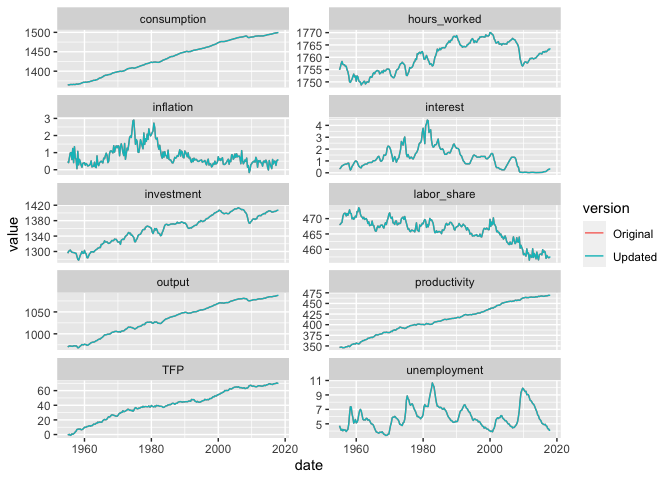
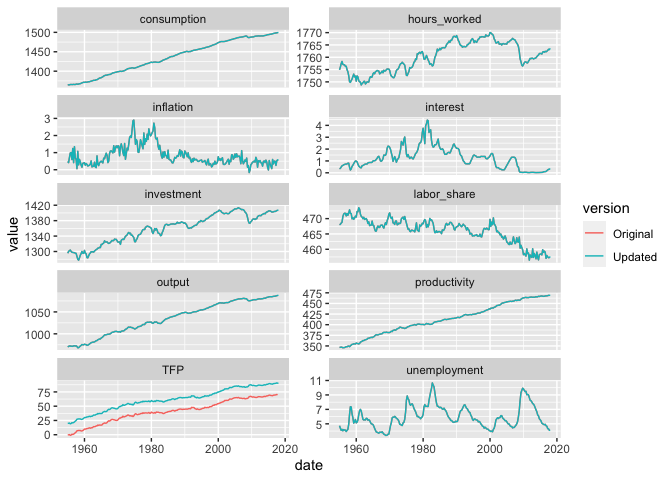
Removed constant adj to TFP

Changed region(s): [[0.0938, 0.7812, 0.4062, 0.9062], [0.0312, 0.8125, 0.0938, 0.875]]

diff --git a/README.md b/README.md
@@ -99,15 +99,9 @@ which is pulled using the validation date `"2018-07-28"`.
 
 This is accomplished by setting the paramter `replicate` to `TRUE`.
 
-``` r
-
-replication <- pull_bcadata("XXXXXXXXXXXX", replicate = TRUE)
-#> Warning: There was 1 warning in `mutate()`.
-#> ℹ In argument: `name = as.numeric(.data$name)`.
-#> Caused by warning:
-#> ! NAs introduced by coercion
-
-compare_bcadata(replication)
-```
+    #> Warning: There was 1 warning in `mutate()`.
+    #> ℹ In argument: `name = as.numeric(.data$name)`.
+    #> Caused by warning:
+    #> ! NAs introduced by coercion
 
 <img src="man/figures/README-replicate-1.png" width="100%" />
